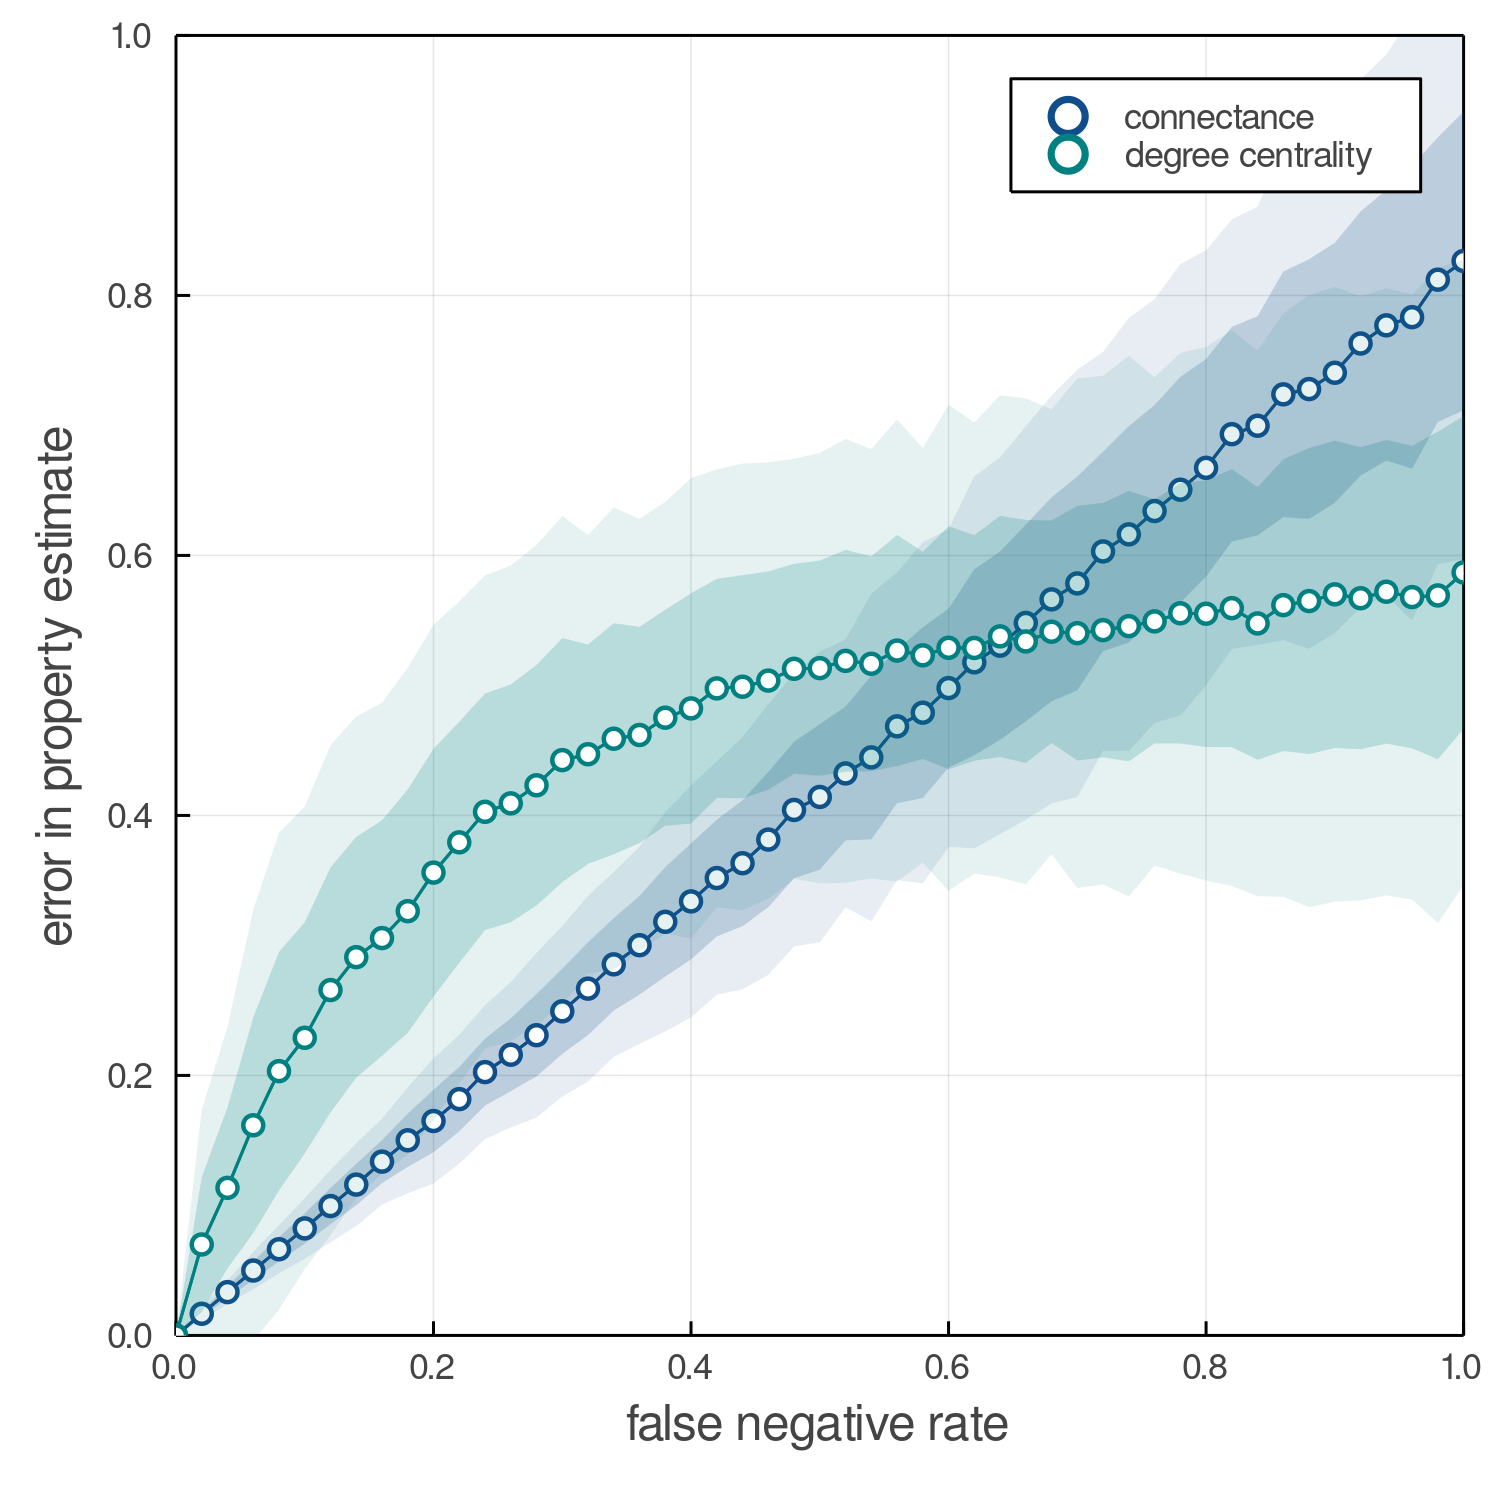
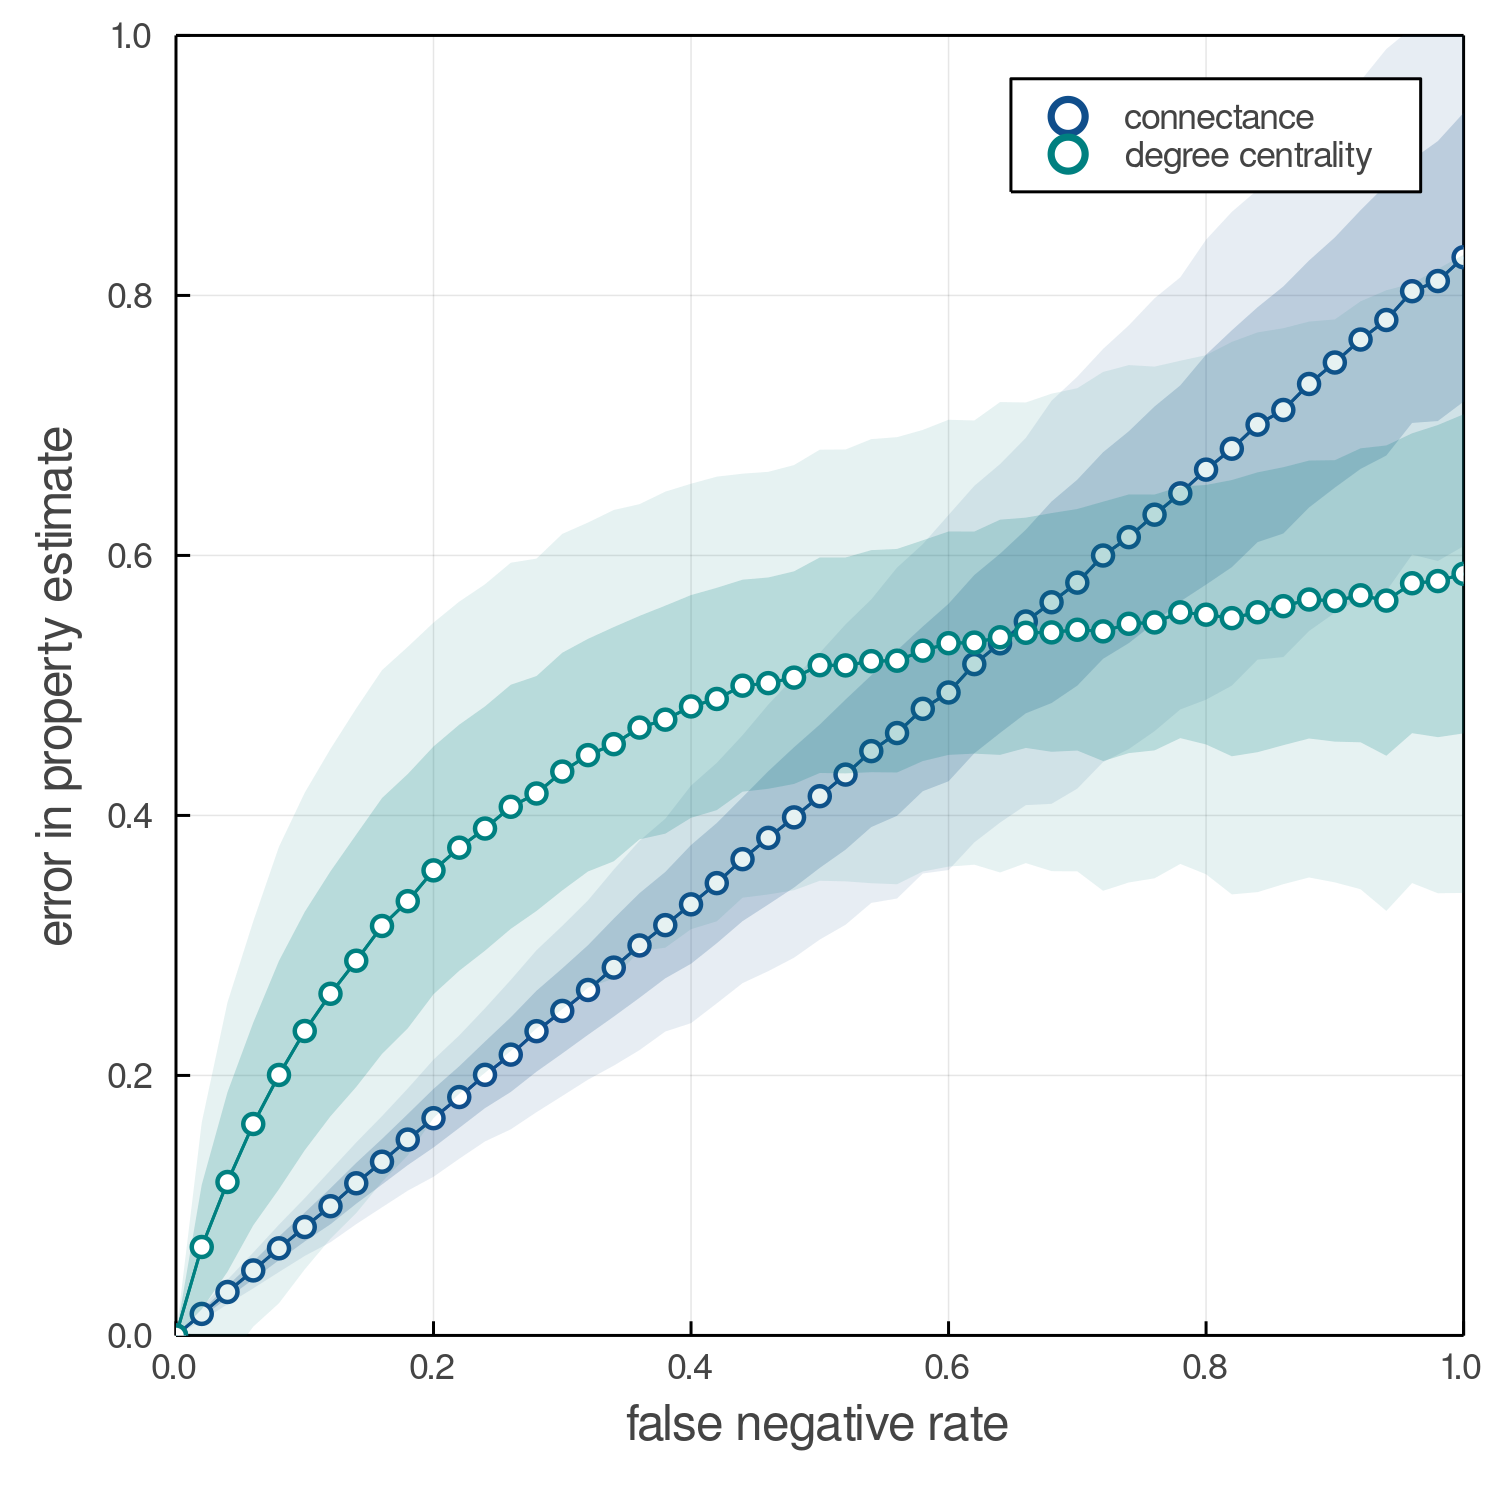
props update

diff --git a/manuscript.md b/manuscript.md
@@ -246,9 +246,10 @@ with a known proportion of false negatives to compare the computed network
 properties of the original "true" network to the computed properties of the
 "observed" network with added false-negatives. In @fig:properties we show four
 properties (connectance, spectral radius, mean degree-centrality, and entropy)
-computed across 200 replicates at each value of the false negative rate
+computed across 2000 replicates at each value of the false negative rate
 $p_{fn}$. Each replicate uses a random food-web simulated using the niche model
-[@Williams2000SimRul] with $100$ species and true connectance $C=0.1$.
+[@Williams2000SimRul] with $100$ species and connectance derived from
+@MacDonald2020RevLin as ealier.
 
 ![The mean-squared error (y-axis) of various network properties (different
 panels) across various simulated false-negative rates (x-axis). Means denoted
